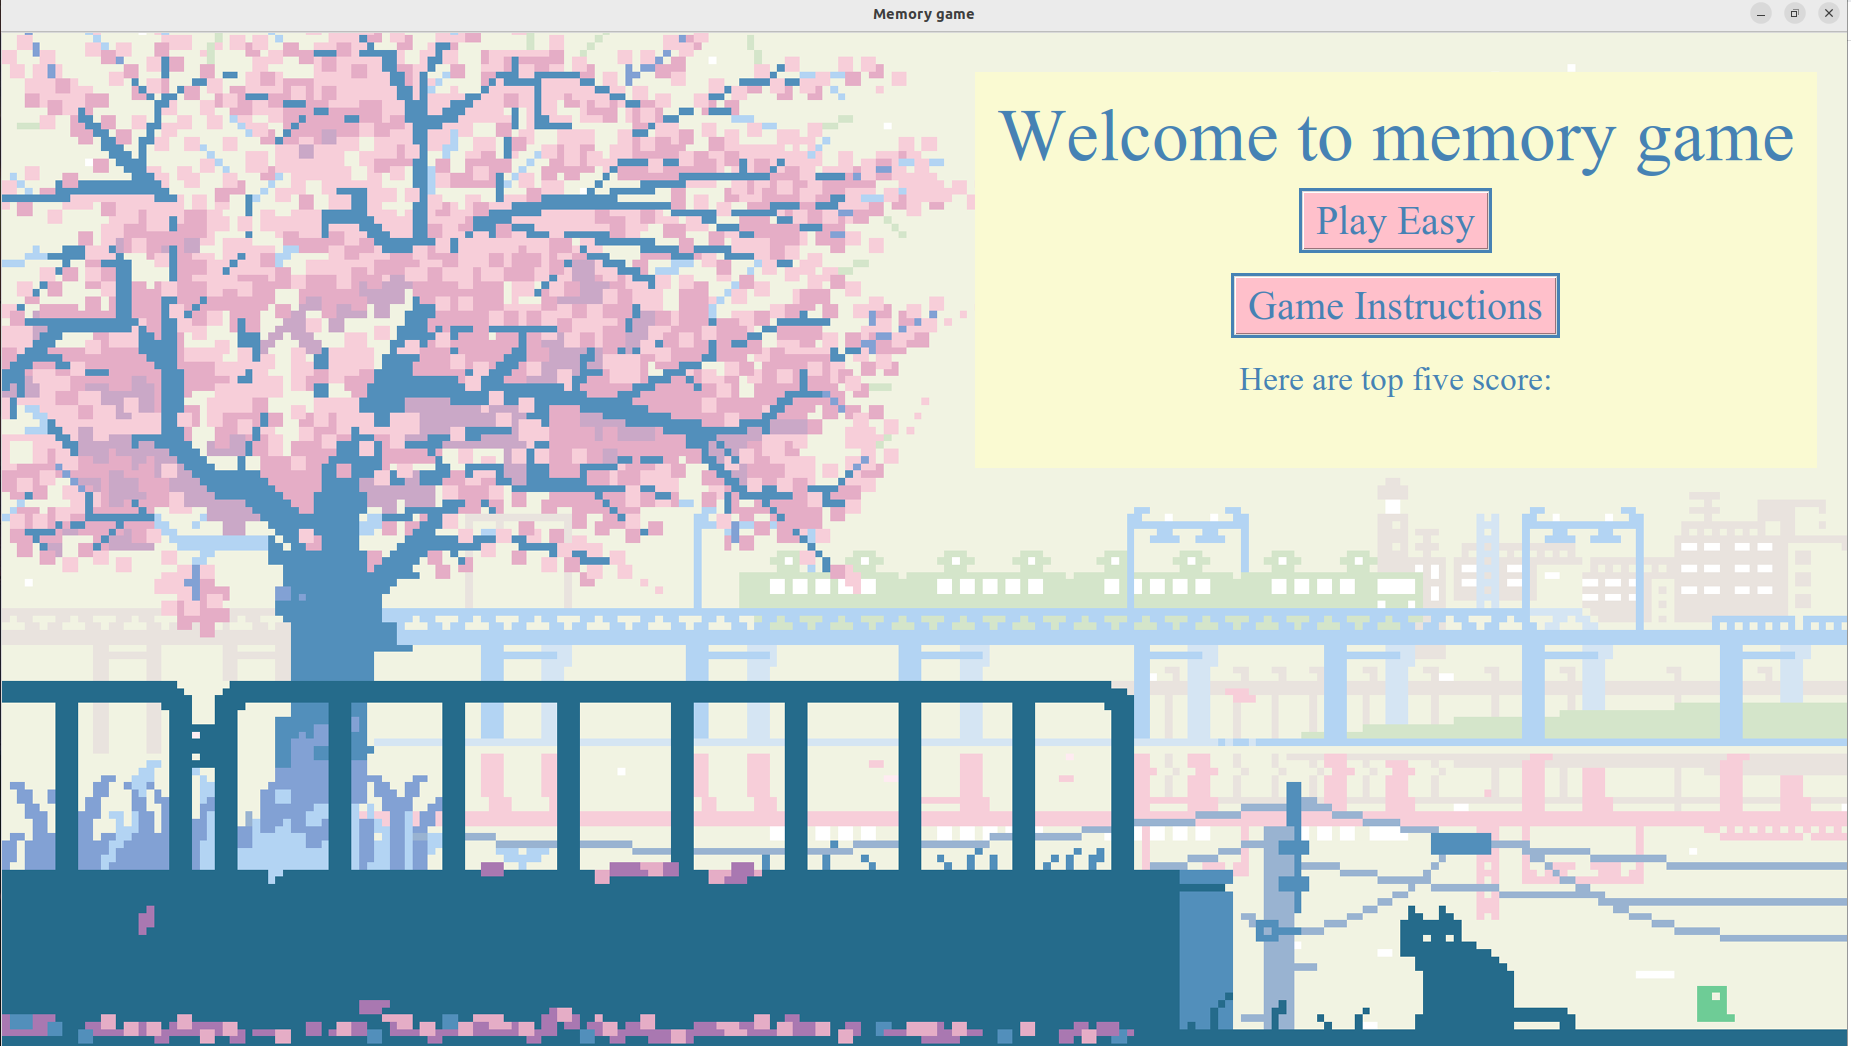
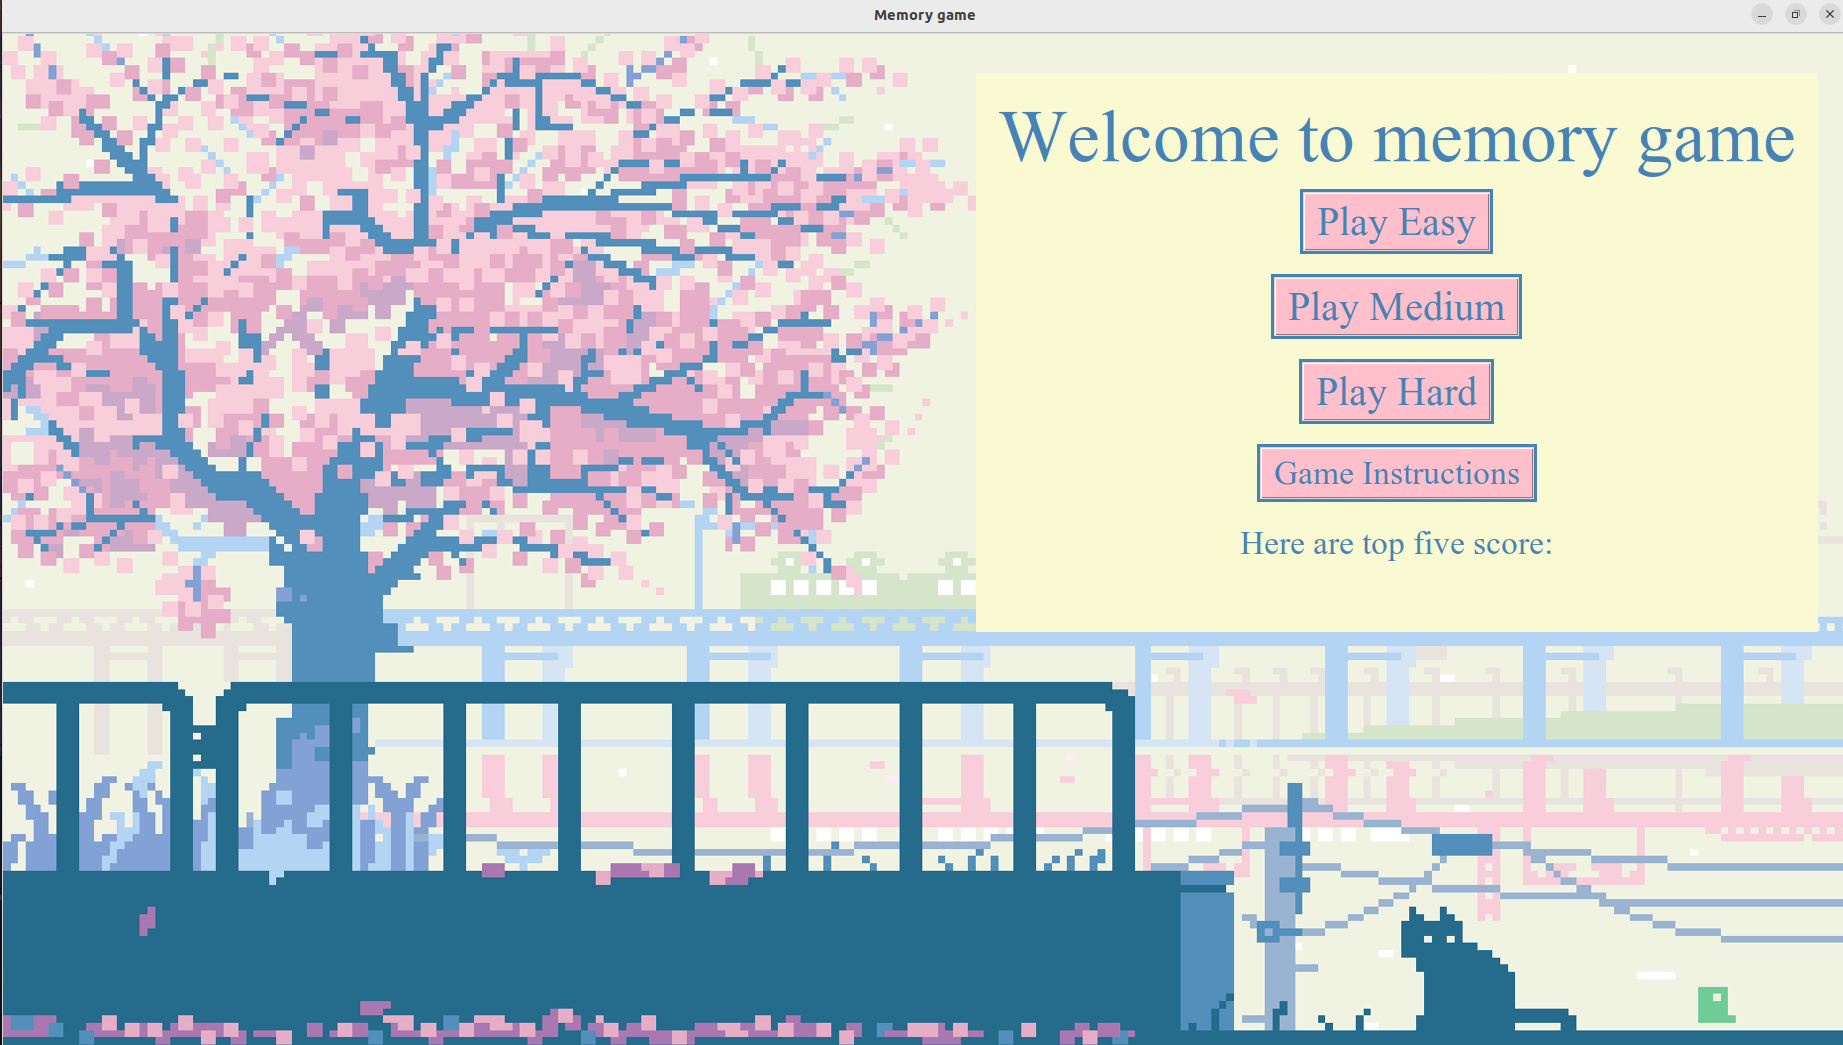
lisäys

diff --git a/dokumentaatio/käyttöohje.md b/dokumentaatio/käyttöohje.md
@@ -18,11 +18,17 @@ Kun peli käynnistetään, näkyy etusivu:
 Paina o nappulasta, jotta peli on koko ruudun tilassa.
 
 Painamalla game instructions voi nähdä ohjeen, miten peliä pelataan.
+![howtoplay](./kuvat/how_to_play.png)
+
 Jos haluaa poistua pelistä, niin voi painaa x nappulaa yläkulmasta.
 
 ## Peli näkymä
-Painamalla Play Easy avaa peli näkymän easy tasolla.
-![etusivu](./kuvat/pelinäkymä.png)
+Painamalla Play Easy avaa peli näkymän easy tasolle.
+![pelinäkymä](./kuvat/pelinäkymä_easy.png)
+Painamalla Play Medium avaa peli näkymän medium tasolle.
+![pelinäkymä](./kuvat/pelinäkymä_medium.png)
+Painamalla Play Hard avaa peli näkymän hard tasolle.
+![pelinäkymä](./kuvat/pelinäkymä_hard.png)
 
 Painamalla quit game voi palata pelin etusivulle. Peli ei tallennu, joten peli alkaa alusta sen jälkeen. Kun kaikki parit on löydetty, sivulla näkyy CONGRATULATIONS<3 eli olet voittanut pelin ja siinä näkyy myös suoritusaika.
 

diff --git a/dokumentaatio/vaatimusmaarittely.md b/dokumentaatio/vaatimusmaarittely.md
@@ -4,7 +4,7 @@
 Pelissä on easy mode:ssa 10x4 korttia eli yksi korttipakka, jossa on vain numerosta 1-10. Pelaaja voi valita minkä vaikeustason hän haluaa pelata. Tasoja on easy, medium ja hard, niissä korttimäärä vaihtelee. Pelissä on tarkoitus valita kaksi korttia, jotka ovat molemmat samaa numeroa. Kortit ovat aluksi väärinpäin ja kortteja saa kääntää 2 kerralla, mutta tämä muuttuu eri tason kohdalla. Sitten kun kaikki parit on löydetty, niin pelin voittaa. 
 
 ## Käyttöliittymäluonnos
-![IMG_5206.jpg](./kuvat/IMG_5206.jpg)
+![käyttöliittymäluonnos.jpg](./kuvat/käyttöliittymäluonnos.jpg)
 
 ## Perusversion tarjoama toiminnallisuus
 - On tervetuloa sivu, missä on how to play-ohje **tehty**
